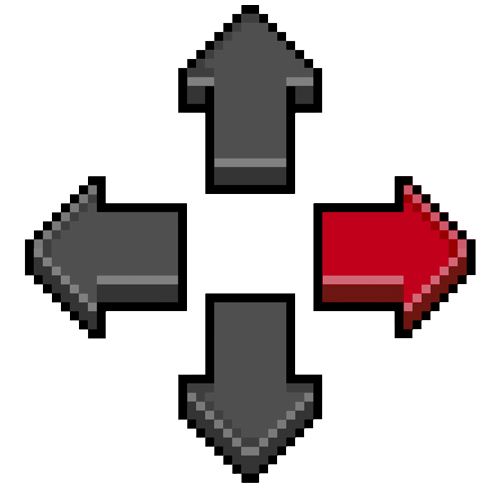
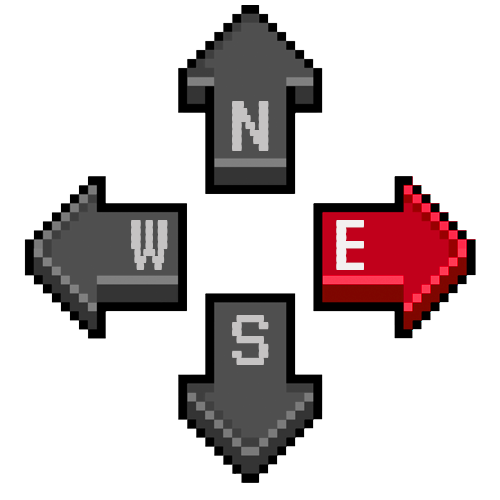
added directionals to compass and added circular border

diff --git a/src/styles/Compass.css b/src/styles/Compass.css
@@ -1,8 +1,18 @@
-.compass {
-  width: 120px;
-  height: 120px;
+.compass-container {
+  border: 3px solid #00000072;
+  background-color: #00000042;
+  padding: 3px 0px 0px 0px;
   position: absolute;
   top: 10px;
   left: 10px;
   z-index: 900;
+  display: flex;
+  justify-content: center;
+  align-items: center;
+  border-radius: 50%;
+}
+
+.compass {
+  width: 120px;
+  height: 120px;
 }

diff --git a/src/components/Compass.jsx b/src/components/Compass.jsx
@@ -51,7 +51,13 @@ const Compass = ({ isMoving, direction, isSpacePressed }) => {
     }
   }
 
-  return <img className="compass" src={src} />;
+  return (
+    <>
+      <div className="compass-container">
+        <img className="compass" src={src} />
+      </div>
+    </>
+  );
 };
 
 export default Compass;
